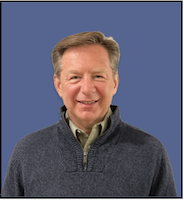
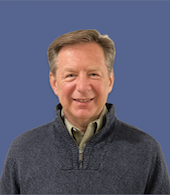
cleaned up image

diff --git a/styles/base.css b/styles/base.css
@@ -75,9 +75,10 @@ h3 {
 }
 
 img {
-    height: 200px;
-    width: 185px;
-    padding-right: 2em;
+    margin-right: 2em;
+    border: solid;
+    border-radius: .5em;
+
 }
 
 ul,
